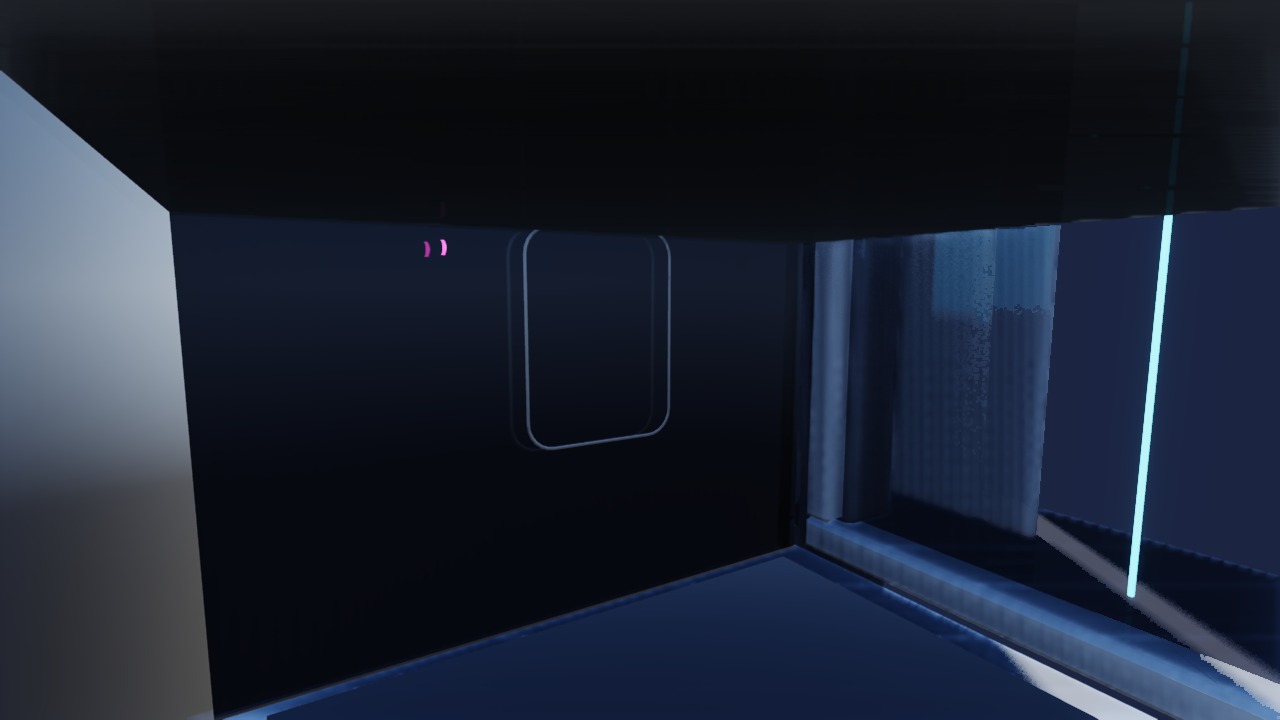
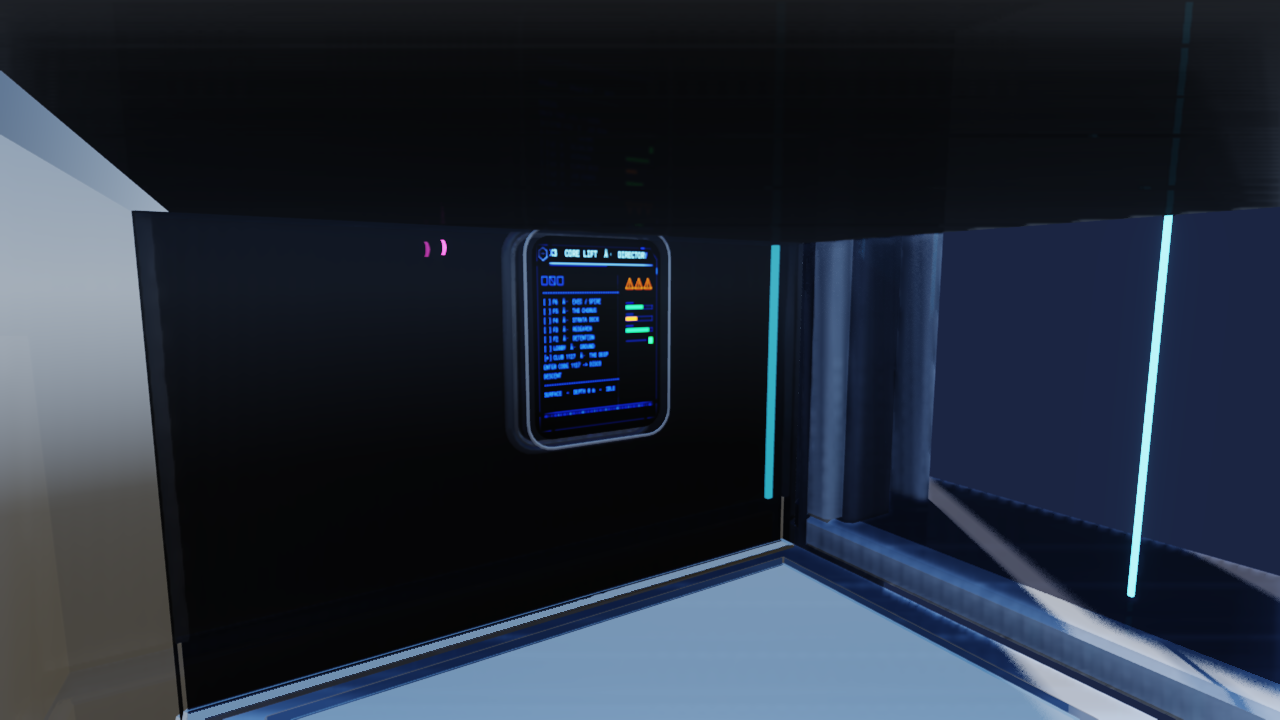
elevator: holo panel RIDES the cab + live depth readout + 4-frame beauty set (goal #2)
The showcase holo control panel built its meshes at the boot floor and layoutCab never
moved them, so riding the cab down 200 m LEFT THE PANEL BEHIND — you lost your controls
mid-descent (only hidden before because captures shot near the top). Fix + elevate:

- HoloPanel::reposition() / HoloTerminal::reposition(): rigidly translate the whole panel
  (screen + chrome frame + ceiling support pipe + glow light) to a new anchor. layoutCab
  now tracks it to the live cab Y every frame, so the panel + its pipe ride the car down.
  Self-contained; other consoles (cell terminal, rift, VIGIL) never call it. holoterm 13/13.

- LIVE DEPTH READOUT (goal #2): the panel's last row counts the cab DOWN to Club 1127 —
  "DEPTH -100 m / -200  -  BASALT  -  DESCENDING", re-baked only when the text changes
  (depth quantized to 2 m). Current floor / stratum / motion state. ASCII separators
  (the font baker renders a UTF-8 middot as "A·").

- Strata liner now reads as SELF-LIT geology: baseColor near-black so the cab's bright
  interior lights can't blow the saturated hue into a flood; colour lives in the emissive
  term; per-band tint stored for the scan-seam blend. Fixes the teal-flood regression.

- Beauty set is now the task's four frames, each driven to its own depth: premium cab
  INTERIOR + HOLO hero at the lobby (doors open, panel lit), the MID-DESCENT strata frame
  (deep indigo basalt), and the CLUB ARRIVAL frame (the magenta crystal glow of THE DEEP).
[…]

diff --git a/app/elevator_showcase.cpp b/app/elevator_showcase.cpp
@@ -302,7 +302,7 @@ void ElevatorShowcase::buildStrataLiner(Scene& scene, x3::rhi::IRenderDevice& de
     const float inHX = m_cabHX + 0.55f, inHZ = m_cabHZ + 0.55f;
     const float seg = 5.0f;                                     // band segment height (m)
     const int   n = std::max(1, (int)((topY - botY) / seg));
-    m_eStrataBands.clear(); m_eStrataBandY.clear(); m_eStrataBandEm.clear();
+    m_eStrataBands.clear(); m_eStrataBandY.clear(); m_eStrataBandEm.clear(); m_eStrataBandTint.clear();
 
     // STYLIZED NEON GEOLOGY palette (premium, club-UV direction): the raw survey rock
     // colours are desaturated greys/tans that wash to a flat haze behind the smoked glass,
@@ -326,16 +326,20 @@ void ElevatorShowcase::buildStrataLiner(Scene& scene, x3::rhi::IRenderDevice& de
         for(int k=0;k<3;++k){rgb[k]=b.rgb[k]; grgb[k]=b.rgb[k];} glow=b.glow;
     };
 
-    // A thin tinted, self-lit panel on one interior face at band center cy.
+    // A thin SELF-LIT geology panel on one interior face at band center cy. The baseColor
+    // is kept near-BLACK so the cab's bright interior lights don't blow the saturated rock
+    // hue into a flood — the colour comes purely from the emissive term (real geology reads
+    // as glowing depth, not a lit wall). The hue is stored for the seam blend in update().
     auto face = [&](float hx,float hy,float hz,float cx,float cy,float cz,
                     const float rgb[3], float em) {
         ElevPrim p; p.mesh = beveledBox(hx,hy,hz,cx,cy,cz,0.01f);
-        float c[4]  = { rgb[0], rgb[1], rgb[2], 1.0f };
-        float e[4]  = { rgb[0], rgb[1], rgb[2], em };
+        float c[4]  = { 0.03f, 0.03f, 0.035f, 1.0f };   // near-black: lighting must not amplify it
+        float e[4]  = { rgb[0], rgb[1], rgb[2], em };    // colour lives in the emissive term
         uint32_t id = addDecor(scene, device, p, c, e, (uint32_t)Tag::Prop);   // world-FIXED, no layoutCab offset
         m_eStrataBands.push_back(id);
         m_eStrataBandY.push_back(cy);
         m_eStrataBandEm.push_back(em);
+        m_eStrataBandTint.push_back(rgb[0]); m_eStrataBandTint.push_back(rgb[1]); m_eStrataBandTint.push_back(rgb[2]);
     };
 
     const float panelHY = seg * 0.5f - 0.06f;   // panel half-height (leaves a dark seam)
@@ -347,14 +351,17 @@ void ElevatorShowcase::buildStrataLiner(Scene& scene, x3::rhi::IRenderDevice& de
         // seam stream past. Crystal/magma layers glow; plain rock is a low self-lit band so
         // the geology reads without washing the premium dark-glass cab. The seam (update())
         // is the motion star.
-        const float em = glow ? 1.5f : 0.40f;   // saturated bands: enough to show hue, not bloom-white
+        // The bands hug the cab closely, so even a modest emissive would FLOOD the premium
+        // dark interior with colour through the glass. Keep the base glow LOW (a coloured
+        // depth cue, not an area light); the bright moving scan-seam (update()) is the real
+        // streaming tell, and it rides additively on top so it still pops.
+        const float em = glow ? 0.70f : 0.16f;
         const float* tint = glow ? grgb : rgb;
         // Back face (-Z, the "spine" seen through the -Z glass wall + straight down the shaft).
         face(inHX - 0.02f, panelHY, 0.03f, m_shaftX, cy, m_shaftZ - inHZ + 0.05f, tint, em);
-        // Two side faces (+/-X) so the banded rock wraps the descent (dimmer — they flank
-        // the camera and would wash the cab if as hot as the spine).
-        face(0.03f, panelHY, inHZ - 0.02f, m_shaftX - inHX + 0.05f, cy, m_shaftZ, tint, em * 0.45f);
-        face(0.03f, panelHY, inHZ - 0.02f, m_shaftX + inHX - 0.05f, cy, m_shaftZ, tint, em * 0.45f);
+        // Two side faces (+/-X): dimmer still — they flank the camera closest of all.
+        face(0.03f, panelHY, inHZ - 0.02f, m_shaftX - inHX + 0.05f, cy, m_shaftZ, tint, em * 0.35f);
+        face(0.03f, panelHY, inHZ - 0.02f, m_shaftX + inHX - 0.05f, cy, m_shaftZ, tint, em * 0.35f);
     }
     x3::logInfo("[showcase] strata liner: " + std::to_string(m_eStrataBands.size()) +
                 " glowing geology bands (" + std::to_string(topY) + " -> " + std::to_string(botY) + " m)");
@@ -485,6 +492,11 @@ void ElevatorShowcase::buildHoloPanel(Scene& scene, x3::rhi::IRenderDevice& devi
         m_holo.addLine(row);
     }
     m_holo.addLine(std::string("ENTER CODE 1127 -> DISCO DESCENT"));
+    m_holo.addLine(std::string("--------------------------------"));
+    // The LIVE status row (updated each frame via setLastLine): floor / depth-to-club /
+    // stratum / motion. Seeded here; update() re-bakes it only when the text changes.
+    m_holoStatusLine = "SURFACE  -  DEPTH 0 m  -  IDLE";
+    m_holo.addLine(m_holoStatusLine);
     m_stats.hasHoloPanel = true;
 
     // Interior floor-select ROUND BUTTONS in a column beside the holo glass (real
@@ -537,6 +549,15 @@ void ElevatorShowcase::layoutCab(Scene& scene) {
     for (int i = 0; i < m_holoButtonCount; ++i) {
         float by = 0.4f + (float)i * 0.16f - 1.0f;
         place(m_eHoloButtons[i], W - 0.13f, by, -0.55f);
+    }
+
+    // THE HOLO PANEL RIDES THE CAB. It builds its own meshes (not offset by place()), so
+    // without this the control panel + its ceiling pipe stayed at the boot floor while the
+    // car descended 200 m — you'd lose your panel mid-ride. Track it to the live cab Y
+    // (same anchor buildHoloPanel used: +X wall, chest height above the deck).
+    if (m_holo.built()) {
+        const float floorY = c.y + m_cabHY;
+        m_holo.reposition(x3::phys::Vec3{ m_shaftX + W - 0.10f, floorY + 1.35f, m_shaftZ + 0.2f });
     }
 
     // Disco-ball glow when disco mode is on.
@@ -639,6 +660,27 @@ float ElevatorShowcase::update(float dt, Scene& scene, x3::rhi::IRenderDevice& d
     float dy = m_elev.update(dt, scene, physics);
     layoutCab(scene);
     animateDoors(scene);
+
+    // LIVE HOLO DEPTH READOUT (goal #2): the panel's last row counts the cab DOWN to the
+    // club at Y=-200 with the live stratum + motion state. Re-baked only when the text
+    // actually changes (depth quantized to 2 m so a full-speed descent doesn't rebake the
+    // glass every frame).
+    {
+        const float y = m_elev.cabCenter().y;
+        const int   depth = ((int)std::lround(-y / 2.0f)) * 2;   // metres below surface, 2 m steps
+        std::string state;
+        if (m_elev.disco())               state = "DISCO DESCENT";
+        else if (!m_elev.moving())        state = (depth > 4 ? "ARRIVED" : "IDLE");
+        else if (m_elev.targetStop() >= 0 &&
+                 m_floors[m_elev.targetStop()].centerY < y) state = "DESCENDING v";
+        else                              state = "ASCENDING ^";
+        std::string line = (depth <= 0)
+            ? std::string("SURFACE  -  DEPTH 0 m  -  ") + state
+            : std::string("DEPTH -") + std::to_string(depth) + " m / -200  -  " +
+              m_elev.currentStratum() + "  -  " + state;
+        if (line != m_holoStatusLine) { m_holoStatusLine = line; m_holo.setLastLine(line); }
+    }
+
     m_holo.update(dt);
 
     // Entertainment screen: a slow hue-cycling glow (looping ad visuals).
@@ -670,17 +712,18 @@ float ElevatorShowcase::update(float dt, Scene& scene, x3::rhi::IRenderDevice& d
             if (id == kNoLink || id >= scene.size()) continue;
             Entity& e = scene.get(id);
             const float base = m_eStrataBandEm[i];
+            const float tr = m_eStrataBandTint[i*3], tg = m_eStrataBandTint[i*3+1], tb = m_eStrataBandTint[i*3+2];
             // Proximity of this band to the moving sweep -> a passing highlight.
             float d = std::fabs(m_eStrataBandY[i] - sweepY);
             float seam = travelling ? std::max(0.0f, 1.0f - d / 2.2f) : 0.0f;
             // Depth-swell: deeper bands (nearer the club) glow up as you descend into them.
             float depthLift = 0.5f + 0.5f * descentProgress();
             e.emissive[3] = (base * depthLift + seam * 2.2f) * yield;
-            // The seam shifts each band's glow toward a bright cool scan-line as it passes
-            // (the clear "rushing" tell); it eases back to the band's rock tint behind it.
-            e.emissive[0] = e.baseColor[0] + (0.45f - e.baseColor[0]) * seam;
-            e.emissive[1] = e.baseColor[1] + (0.85f - e.baseColor[1]) * seam;
-            e.emissive[2] = e.baseColor[2] + (1.00f - e.baseColor[2]) * seam;
+            // Rests at the band's rock hue; the passing seam shifts it toward a bright cool
+            // scan-line (the clear "rushing" tell), easing back to rock behind it.
+            e.emissive[0] = tr + (0.45f - tr) * seam;
+            e.emissive[1] = tg + (0.85f - tg) * seam;
+            e.emissive[2] = tb + (1.00f - tb) * seam;
         }
     }
 
@@ -736,6 +779,12 @@ void ElevatorShowcase::showcaseCamera(int variant, float out[5]) const {
         out[0] = m_shaftX + 0.15f; out[1] = floorY + 1.55f; out[2] = m_shaftZ + m_cabHZ - 0.35f;
         out[3] = -1.5708f;   // face -Z (toward the strata spine)
         out[4] = -0.18f;
+    } else if (variant == 3) {
+        // Holo panel HERO: stand close in front of the +X control panel, looking straight
+        // at it (the glowing directory + live depth readout fill the frame).
+        out[0] = m_shaftX + 0.15f; out[1] = floorY + 1.42f; out[2] = m_shaftZ + 0.22f;
+        out[3] = 0.0f;             // face +X (straight at the holo glass)
+        out[4] = -0.04f;
     } else {
         // Interior beauty: stand in a back corner of the cab looking across the dark-
         // glass interior toward the +X holo wall + accent strips (eye height, slight

diff --git a/app/world_hosts/host_elevator.cpp b/app/world_hosts/host_elevator.cpp
@@ -65,28 +65,49 @@ int hostElevator(HostContext& hc) {
         // ===== Headless beauty set: interior / exterior / strata-descent =====
         if (headless) {
             const float dt = 1.0f / 60.0f;
-            struct Shot { int variant; const char* name; };
+            // driveToY: descend to this cab-center Y before the shot (1e9 = shoot in place
+            // at the lobby). The task's four beauty frames: the premium cab interior + the
+            // holo panel are shot at the top (doors open, panel lit), then the cab descends
+            // for the MID-DESCENT strata frame and the CLUB ARRIVAL frame.
+            struct Shot { int variant; const char* name; float driveToY; };
             std::vector<Shot> shots;
+            const float clubY = x3::game::ElevatorSystem::kDefaultClubFloorY + 0.18f;
             if (elevShot) {
-                shots = { {0, "elevator_interior.png"}, {1, "elevator_exterior.png"}, {2, "elevator_strata.png"} };
+                shots = {
+                    {0, "elevator_interior.png", 1e9f},
+                    {3, "elevator_holo.png",     1e9f},
+                    {2, "elevator_descent.png", -100.0f},
+                    {1, "elevator_arrival.png",  clubY + 5.0f},
+                };
             } else {
-                shots = { {0, screenshot ? "" : ""} };   // single --screenshot
+                shots = { {0, screenshot ? "" : "", 1e9f} };   // single --screenshot
             }
-            // Drive the lift partway down so the strata shot has rock layers below.
-            // X3_ELEV_DISCO=1: enter the 1127 code instead, so the beauty set proves
-            // the DISCO cue (ball glow, strobe, magenta terminal/LED, club descent).
-            if (std::getenv("X3_ELEV_DISCO")) {
-                show.keypadDigit(1); show.keypadDigit(1); show.keypadDigit(2); show.keypadDigit(7);
-            } else {
-                show.callClub();
-            }
-            for (int i = 0; i < 90; ++i) {
+            // Settle a few frames so the doors open at the lobby + the holo bakes its glass.
+            for (int i = 0; i < 40; ++i) {
                 show.update(dt, escene, *device, *ephys);
                 const auto& l = show.pointLights(); device->setPointLights(l.data(), (uint32_t)l.size());
                 ephys->step(dt); escene.update(*ephys);
             }
+            const bool disco = std::getenv("X3_ELEV_DISCO") != nullptr;
+            bool descentIssued = false;
+            // Drive the cab down until its center reaches targetY (or a safety cap of ~30 s).
+            auto descendTo = [&](float targetY) {
+                if (!descentIssued) {
+                    // X3_ELEV_DISCO=1 proves the disco cue (ball glow / strobe / magenta) on
+                    // the way down; otherwise a plain club call.
+                    if (disco) { show.keypadDigit(1); show.keypadDigit(1); show.keypadDigit(2); show.keypadDigit(7); }
+                    else       { show.callClub(); }
+                    descentIssued = true;
+                }
+                for (int i = 0; i < 1800 && show.cabCenter().y > targetY; ++i) {
+                    show.update(dt, escene, *device, *ephys);
+                    const auto& l = show.pointLights(); device->setPointLights(l.data(), (uint32_t)l.size());
+                    ephys->step(dt); escene.update(*ephys);
+                }
+            };
             bool allOk = true;
             for (const Shot& s : shots) {
+                if (s.driveToY < 1e8f) descendTo(s.driveToY);
                 std::string outPath = elevShot ? (elevShotDir + "/" + s.name) : screenshotPath;
                 float cam[5]; show.showcaseCamera(s.variant, cam);
                 if (shotCamOverride) for (int k = 0; k < 5; ++k) cam[k] = shotCam[k];

diff --git a/app/elevator_showcase.h b/app/elevator_showcase.h
@@ -196,6 +196,7 @@ private:
     std::vector<uint32_t> m_eStrataBands;    // tinted glowing wall segments down the shaft
     std::vector<float>    m_eStrataBandY;    // world-Y center of each band segment
     std::vector<float>    m_eStrataBandEm;   // each band's base emissive strength (for the pulse)
+    std::vector<float>    m_eStrataBandTint; // 3 floats/band: the band's SELF-LIT rock hue
     // STRATA STREAMING HOOK (for the separately-built streamed planet-strata): today the
     // liner is a self-contained placeholder. When the real streamed geology exists, a host
     // sets this true and feeds live layers by re-tinting m_eStrataBands (or swaps the liner
@@ -208,6 +209,10 @@ private:
 
     float m_time = 0.0f;
     float m_entScroll = 0.0f;
+    // Live holo DEPTH readout (goal #2): the panel's last line is an animated status row
+    // — current floor / depth counting down to -200 / stratum / state. Re-baked onto the
+    // glass only when the formatted text actually changes (stb_truetype bakes are dear).
+    std::string m_holoStatusLine;
 };
 
 // Headless self-test (--test-elevator-showcase): build the showcase with a default

diff --git a/app/holo_panel.cpp b/app/holo_panel.cpp
@@ -805,6 +805,21 @@ void HoloPanel::build(Scene& scene, x3::rhi::IRenderDevice& device, const HoloPa
     }
 }
 
+void HoloPanel::reposition(x3::phys::Vec3 newPos) {
+    if (!m_scene || m_pane == kNoLink) return;
+    const float dx = newPos.x - m_pos.x, dy = newPos.y - m_pos.y, dz = newPos.z - m_pos.z;
+    if (dx == 0.0f && dy == 0.0f && dz == 0.0f) return;
+    auto shift = [&](uint32_t id) {
+        if (id == kNoLink || id >= m_scene->size()) return;
+        Entity& e = m_scene->get(id);
+        e.transform[12] += dx; e.transform[13] += dy; e.transform[14] += dz;
+    };
+    shift(m_pane);
+    for (uint32_t id : m_decor) shift(id);
+    m_glowPos[0] += dx; m_glowPos[1] += dy; m_glowPos[2] += dz;
+    m_pos = newPos;
+}
+
 void HoloPanel::setContent(const std::vector<uint8_t>& rgba) {
     if (!m_device || m_pane == kNoLink) return;
     x3::rhi::TextureHandle fresh = m_device->createTexture(rgba.data(), m_texN, m_texN, true);

diff --git a/app/holo_panel.h b/app/holo_panel.h
@@ -215,6 +215,12 @@ public:
     // its smoketest gates on allocationCount == 0. Safe to call unbuilt / twice.
     void shutdown(x3::rhi::IRenderDevice& device);
 
+    // Rigidly move the whole panel (screen + frame + mount pipe + glow light) to a new
+    // anchor — the delta from the current anchor is added to every owned entity's transform
+    // translation. Used by a MOVING mount (the elevator cab): the panel + its ceiling pipe
+    // ride down with the cab. No re-bake (geometry only). Safe before build (no-op).
+    void reposition(x3::phys::Vec3 newPos);
+
     bool built() const { return m_pane != kNoLink; }
     x3::phys::Vec3 anchor() const { return m_pos; }
     uint32_t paneEntity() const { return m_pane; }

diff --git a/app/holo_terminal.h b/app/holo_terminal.h
@@ -120,6 +120,10 @@ public:
 
     // World anchor (panel center) for the host's worldToScreen text placement.
     x3::phys::Vec3 anchor() const { return m_pos; }
+    // Rigidly move the whole terminal (glass + frame + ceiling pipe + glow) to a new
+    // anchor — for a MOVING mount like the elevator cab, so the control panel rides down
+    // with the car. Keeps m_pos in sync for worldToScreen text placement.
+    void reposition(x3::phys::Vec3 newPos) { m_panel.reposition(newPos); m_pos = newPos; }
     uint32_t entity() const;          // the platform's screen pane
     bool built() const;
     // The platform fixture (glow-light suggestion, pane entity, teardown).
